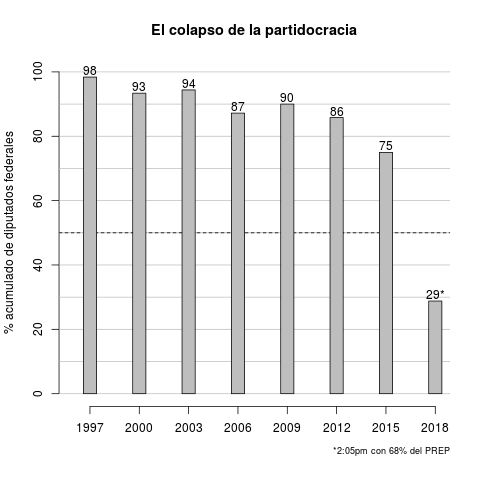
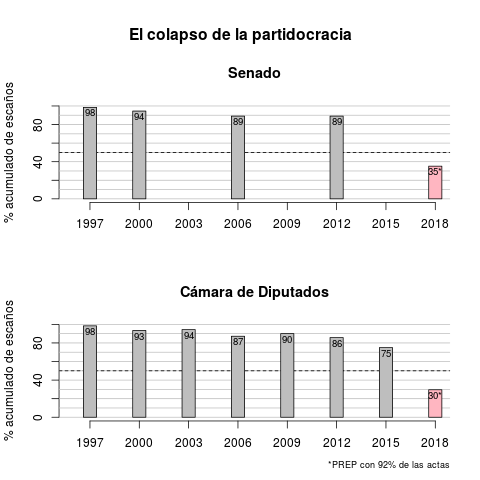
Adds senate to collapse post

diff --git a/_posts/2018-07-02-colapso-sis-partidos.html b/_posts/2018-07-02-colapso-sis-partidos.html
@@ -4,7 +4,7 @@ title: El colapso del sistema de partidos mexicano
 # subtitle: Las invasiones bárbaras 
 author: eric.magar
 date:   2018-07-02
-last_modified_at: 2018-07-02
+last_modified_at: 2018-07-03
 toc: false
 tags: 
   - elecciones
@@ -40,14 +40,14 @@ Pero nada dura por siempre. Quizás por apostarle tanto a las barreras de entrad
 </div>
 
 <p>
-Entonces, entre las víctimas de lo que el diario <i>Reforma</i> llamó a ocho columnas jonrón con casa llena de AMLO el 1o de julio hay que poner, en primer plano, al sistema de partidos tal cual lo conocemos desde 1988. El domingo pasado puso fin a los cambios incrementales y presenciamos una ruptura. Esto lo retrata con elocuencia el diagrama <a href="#org7443183">2</a>, que reporta el porcentaje de diputaciones federales ocupadas por lo tres principales. Todavía en 2009 obtuvieron nueve de diez. En 2018 no alcanzarán ni tres de cada diez. Es el fin de la partidocracia. La mayoría de la LXIV legislatura, en ambas cámaras del Congreso, la controlarán dos partidos nuevos, Morena y el PES, junto con el otrora marginal PT. No es descabellado imaginar que, enfrascados en luchas intestinas, ni el PAN ni el PRI pudiesen resurgir de sus cenizas. Y nuevos partidos podrían entrar en la escena. 
+Entonces, entre las víctimas de lo que el diario <i>Reforma</i> llamó a ocho columnas jonrón con casa llena de AMLO el 1o de julio hay que poner, en primer plano, al sistema de partidos tal cual lo conocemos desde 1988. El domingo pasado puso fin a los cambios incrementales y presenciamos una ruptura. Esto lo retrata con elocuencia el diagrama <a href="#org7443183">2</a>, que reporta el porcentaje de senadores y diputados federales de los tres principales. Todavía en 2009 obtuvieron nueve de cada diez diputaciones; en 2018 no alcanzarán ni tres de cada diez.<sup><a id="fnr.2" class="footref" href="#fn.2">2</a></sup> Presenciamos el fin de la partidocracia. La mayoría de la LXIV legislatura, en ambas cámaras del Congreso, la controlarán dos partidos nuevos, Morena y el PES, junto con el otrora marginal PT. No es descabellado imaginar que, enfrascados en luchas intestinas, ni el PAN ni el PRI pudiesen resurgir de sus cenizas. Y nuevos partidos podrían entrar en la escena. 
 </p>
 
 
 <div id="org7443183" class="figure">
 <p><img src="../assets/img/seatsMajors.png" alt="seatsMajors.png" width="100% style=&quot;float:center;&quot;" />
 </p>
-<p><span class="figure-number">Figura 2: </span>Escaños de los tres principales partidos en la Cámara de Diputados 1997&#x2013;2018</p>
+<p><span class="figure-number">Figura 2: </span>Escaños de los tres principales partidos en el Congreso 1997&#x2013;2018</p>
 </div>
 
 <p>
@@ -59,6 +59,10 @@ Sistemas de partidos históricamente robustos, como el británico o el estadunid
 
 <div class="footdef"><sup><a id="fn.1" class="footnum" href="#fnr.1">1</a></sup> <div class="footpara"><p class="footpara">
 Scott Mainwaring y Timothy R. Scully (coords.). 1995. <i>Building Democratic Institutions: Party Systems in Latin America</i>. Lalo Alto, CA: Stanford University Press.
+</p></div></div>
+
+<div class="footdef"><sup><a id="fn.2" class="footnum" href="#fnr.2">2</a></sup> <div class="footpara"><p class="footpara">
+La estimación de escaños ganados en 2018 es de Javier Márquez @JMarquezP, con base en los datos del PREP.
 </p></div></div>
 
 
